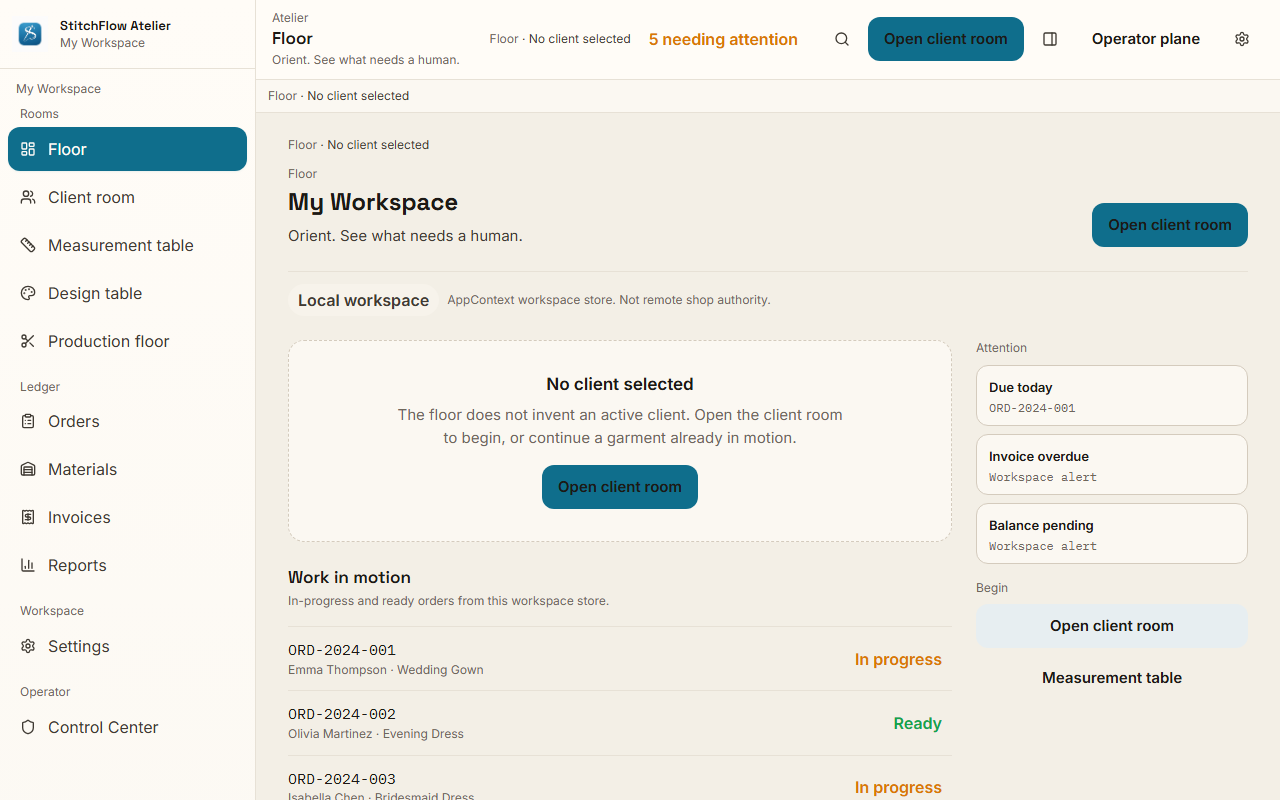
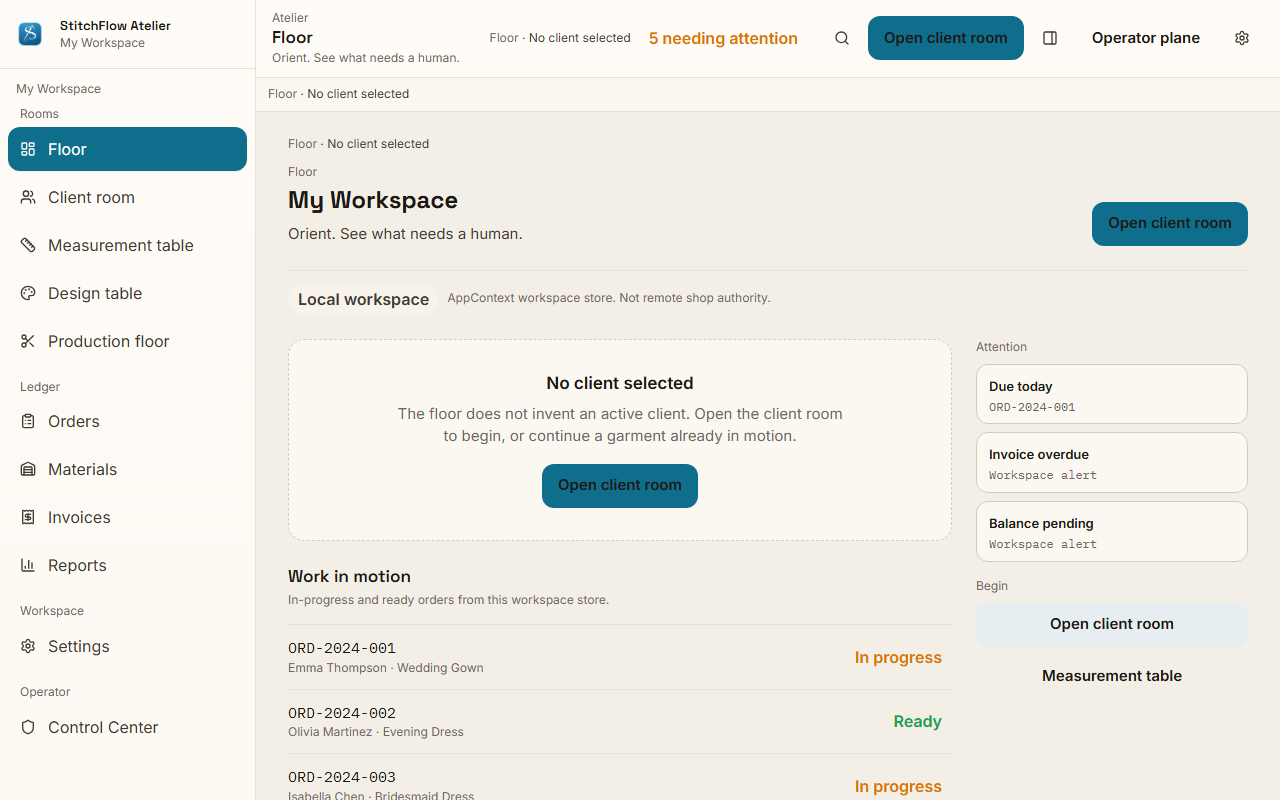
feat(experience): remediate programme-wide responsive defects

diff --git a/apps/web/src/experience/primitives/overlays.tsx b/apps/web/src/experience/primitives/overlays.tsx
@@ -124,10 +124,20 @@ export function Dialog({
             )}
             {...dialogMotion}
           >
-            <h2 id={headingId} className="font-display text-heading text-ink-primary">
-              {title}
-            </h2>
-            <div className="mt-4 max-h-[75vh] overflow-y-auto">{children}</div>
+            <div className="flex items-start justify-between gap-3">
+              <h2 id={headingId} className="min-w-0 font-display text-heading text-ink-primary">
+                {title}
+              </h2>
+              <button
+                type="button"
+                aria-label="Close dialog"
+                className="sf-focus-ring inline-flex min-h-11 min-w-11 shrink-0 items-center justify-center rounded-sf text-label text-ink-secondary hover:bg-action-secondary"
+                onClick={onClose}
+              >
+                Close
+              </button>
+            </div>
+            <div className="mt-4 max-h-[min(75vh,28rem)] overflow-y-auto">{children}</div>
           </motion.div>
         </motion.div>
       ) : null}
@@ -175,7 +185,17 @@ export function Sheet({
             className="absolute inset-y-0 right-0 w-full max-w-md overflow-auto bg-surface-elevated p-6 shadow-sf-lg"
             {...sheetMotion}
           >
-            <h2 className="text-heading text-ink-primary">{title}</h2>
+            <div className="flex items-start justify-between gap-3">
+              <h2 className="min-w-0 text-heading text-ink-primary">{title}</h2>
+              <button
+                type="button"
+                aria-label="Close sheet"
+                className="sf-focus-ring inline-flex min-h-11 min-w-11 shrink-0 items-center justify-center rounded-sf text-label text-ink-secondary hover:bg-action-secondary"
+                onClick={onClose}
+              >
+                Close
+              </button>
+            </div>
             <div className="mt-4">{children}</div>
           </motion.aside>
         </motion.div>

diff --git a/apps/web/src/control/ControlCenter.tsx b/apps/web/src/control/ControlCenter.tsx
@@ -168,16 +168,16 @@ export function ControlCenter({
         <AtelierStage className="mt-6">
           <p className="text-meta text-ink-muted">Workspace</p>
           <h2 className="mt-1 font-display text-heading text-ink-primary">{currentWorkspace.name}</h2>
-          <dl className="mt-4 space-y-2 text-body text-ink-secondary">
-            <div className="flex justify-between gap-3">
+          <dl className="mt-4 space-y-3 text-body text-ink-secondary">
+            <div className="flex min-w-0 flex-col gap-1 sm:flex-row sm:justify-between sm:gap-3">
               <dt>Workspace id</dt>
-              <dd className="font-numeric">{currentWorkspace.id}</dd>
+              <dd className="min-w-0 break-all font-numeric">{currentWorkspace.id}</dd>
             </div>
-            <div className="flex justify-between gap-3">
+            <div className="flex min-w-0 flex-col gap-1 sm:flex-row sm:justify-between sm:gap-3">
               <dt>Recorded currency</dt>
               <dd className="font-numeric">{currentWorkspace.defaultCurrency || 'Currency not recorded'}</dd>
             </div>
-            <div className="flex justify-between gap-3">
+            <div className="flex min-w-0 flex-col gap-1 sm:flex-row sm:justify-between sm:gap-3">
               <dt>Operator</dt>
               <dd>
                 {currentMember.user.fullName} · {currentMember.role}

diff --git a/apps/web/src/experience/shell/WorkspaceChrome.tsx b/apps/web/src/experience/shell/WorkspaceChrome.tsx
@@ -19,13 +19,15 @@ export function WorkspaceHeader({
       <div className="flex items-center gap-3 px-3 py-2.5 sm:px-4">
         <div className="min-w-0 flex-1">
           <p className="text-meta text-ink-muted">{kicker}</p>
-          <h1 className="truncate font-display text-heading-sm text-ink-primary">{title}</h1>
+          <h1 className="font-display text-heading-sm leading-tight text-ink-primary">{title}</h1>
           {description ? (
-            <p className="mt-0.5 hidden truncate text-meta text-ink-muted md:block">{description}</p>
+            <p className="mt-0.5 hidden text-meta text-ink-muted lg:block">{description}</p>
           ) : null}
         </div>
-        {state ? <div className="hidden items-center gap-2 md:flex">{state}</div> : null}
-        {actions ? <div className="flex flex-wrap items-center justify-end gap-1">{actions}</div> : null}
+        {state ? <div className="hidden items-center gap-2 lg:flex">{state}</div> : null}
+        {actions ? (
+          <div className="flex shrink-0 flex-wrap items-center justify-end gap-1">{actions}</div>
+        ) : null}
       </div>
     </header>
   );

diff --git a/apps/web/src/studio/StudioShell.tsx b/apps/web/src/studio/StudioShell.tsx
@@ -442,7 +442,7 @@ export function StudioShell() {
                 <Button
                   variant="ghost"
                   size="md"
-                  className="hidden md:inline-flex"
+                  className="hidden lg:inline-flex"
                   onClick={() => selectNav('control')}
                 >
                   Operator plane
@@ -460,7 +460,7 @@ export function StudioShell() {
           <div
             className={cn(
               'flex flex-wrap items-center justify-between gap-2 border-b border-line-subtle bg-surface-panel px-3 py-2',
-              workspace === 'design' && !settingsOpen && !controlOpen ? 'sm:hidden' : undefined
+              workspace === 'design' && !settingsOpen && !controlOpen ? 'hidden' : undefined
             )}
           >
             {controlOpen ? (

diff --git a/apps/web/src/experience/experience.test.ts b/apps/web/src/experience/experience.test.ts
@@ -188,6 +188,15 @@ test('dialog traps tab and restores focus on escape path', () => {
   assert.match(source, /previous\?\.focus/);
   assert.match(source, /aria-modal/);
   assert.match(source, /size === 'lg'/);
+  assert.match(source, /Close dialog/);
+  assert.match(source, /max-h-\[92vh\]/);
+});
+
+test('workspace header does not ellipsis the room title', () => {
+  const source = readFileSync(new URL('./shell/WorkspaceChrome.tsx', import.meta.url), 'utf8');
+  assert.match(source, /font-display text-heading-sm leading-tight/);
+  assert.equal(source.includes('truncate font-display'), false);
+  assert.match(source, /hidden items-center gap-2 lg:flex/);
 });
 
 test('customers workroom uses shared Dialog not ModalShell', () => {

diff --git a/apps/web/src/experience/atelier/atelier.tsx b/apps/web/src/experience/atelier/atelier.tsx
@@ -198,7 +198,7 @@ export function AtelierWorkroom({
         data-workroom={place}
         data-workroom-density="canvas"
       >
-        <div className="sticky top-0 z-[1] shrink-0 space-y-2 border-b border-line-subtle bg-surface-canvas px-4 py-3 sm:px-6">
+        <div className="sticky top-0 z-[1] shrink-0 space-y-2 border-b border-line-subtle bg-surface-canvas px-3 py-2 sm:px-6 sm:py-3">
           {thread}
           <div className="flex flex-col gap-3 sm:flex-row sm:items-end sm:justify-between">
             <div className="min-w-0">

diff --git a/apps/web/src/studio/studio.test.ts b/apps/web/src/studio/studio.test.ts
@@ -143,7 +143,8 @@ test('studio shell composes atelier primitives without engines', () => {
   assert.match(shell, /WorkspaceHeader/);
   assert.match(shell, /workflowCustomer/);
   assert.match(shell, /showPlaceNext/);
-  assert.match(shell, /workspace === 'design' && !settingsOpen && !controlOpen \? 'sm:hidden'/);
+  assert.match(shell, /workspace === 'design' && !settingsOpen && !controlOpen \? 'hidden'/);
+  assert.match(shell, /hidden lg:inline-flex/);
   assert.equal(shell.includes('patternEngine'), false);
 });
 

diff --git a/apps/web/src/experience/shell/CommandPalette.tsx b/apps/web/src/experience/shell/CommandPalette.tsx
@@ -59,7 +59,7 @@ export function CommandPalette({
           }
         }}
       />
-      <div className="mt-3 max-h-72 overflow-auto">
+      <div className="mt-3 max-h-[min(18rem,45vh)] overflow-auto">
         {matches.length === 0 ? (
           <p className="px-3 py-6 text-center text-body text-ink-muted">No matching commands in this workspace.</p>
         ) : (

diff --git a/apps/web/src/atelier/DesignStudioFrame.tsx b/apps/web/src/atelier/DesignStudioFrame.tsx
@@ -44,7 +44,7 @@ export function DesignStudioFrame({
       }
       confidence={<AtelierConfidence state="local" detail={detail} />}
     >
-      <div data-design-host="true" className="min-h-[70vh] overflow-auto">
+      <div data-design-host="true" className="min-h-0 overflow-x-auto">
         {children}
       </div>
     </AtelierWorkroom>
